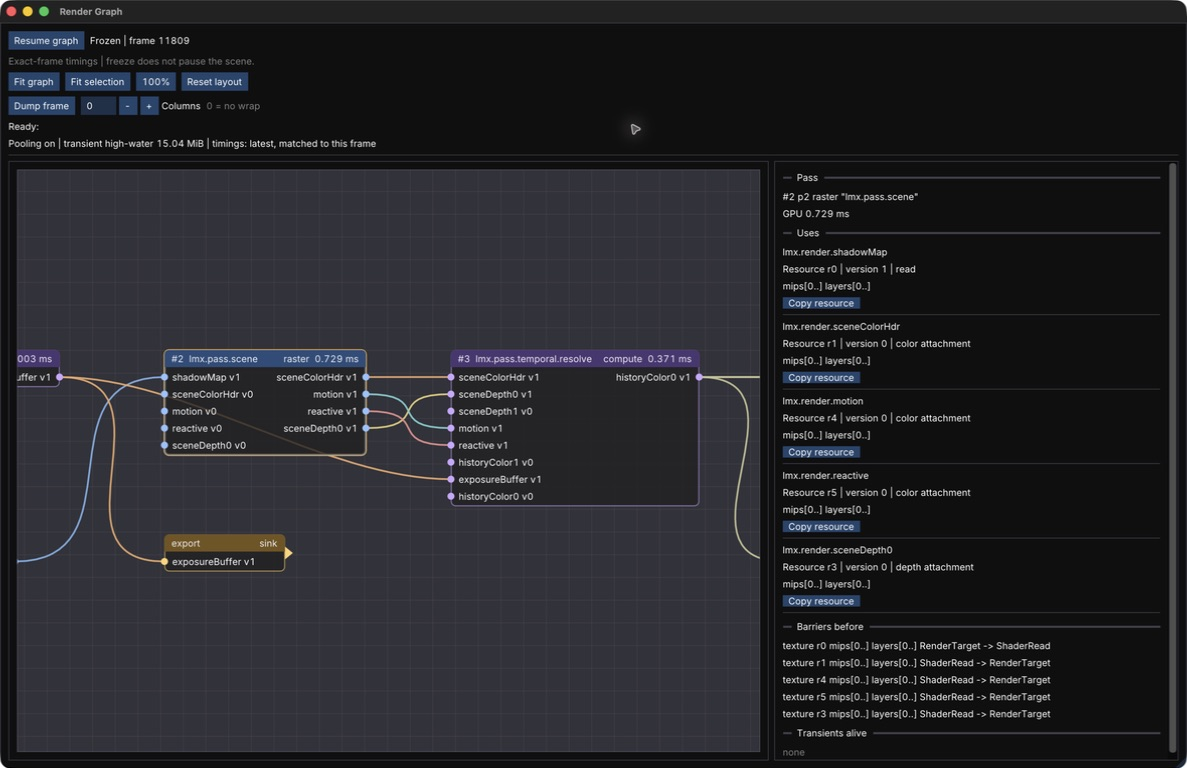
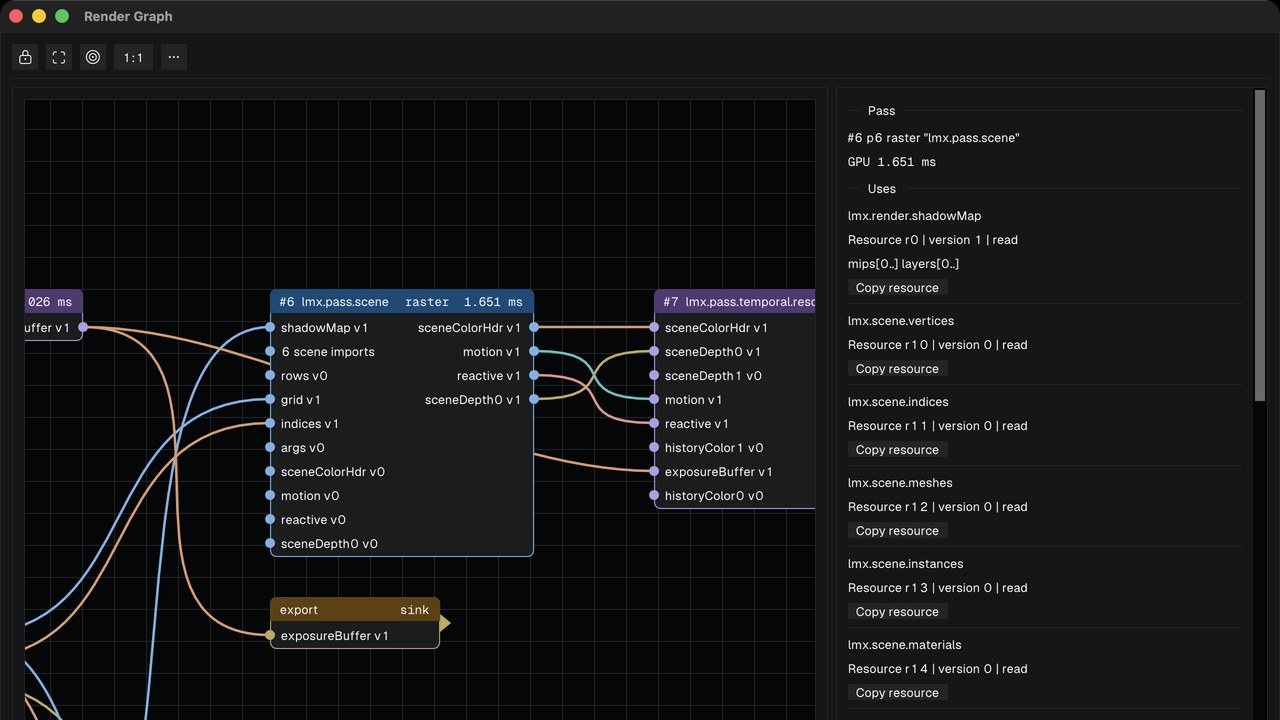
docs: refresh the README with a feature gallery (#73)

diff --git a/README.md b/README.md
@@ -2,97 +2,104 @@
 
 [![Build](https://img.shields.io/github/actions/workflow/status/AmanThuL/Luminex/ci.yml?branch=main&label=build)](https://github.com/AmanThuL/Luminex/actions/workflows/ci.yml) [![Platform](https://img.shields.io/badge/platform-macOS_26+-black)](#quick-start) [![GPU API](https://img.shields.io/badge/GPU_API-Metal_4-555555)](docs/architecture/overview.md) [![Language](https://img.shields.io/badge/C%2B%2B-23-00599C)](#quick-start) [![License](https://img.shields.io/badge/license-Apache--2.0-blue)](LICENSE)
 
-Physically based rendering on Apple Silicon, built directly on Metal 4.
-Explore detailed scenes, temporal reconstruction and the frame behind each image in an interactive editor.
+A physically based renderer written directly on Metal 4 for Apple Silicon, with an editor that lets you take apart any frame it draws.
 
-[Quick start](#quick-start) · [Architecture](docs/architecture/overview.md) · [GPU debugging](docs/guides/gpu-debugging.md)
+[Quick start](#quick-start) · [Architecture](docs/architecture/overview.md) · [Frame walkthrough](docs/architecture/frame-pipeline.md) · [GPU debugging](docs/guides/gpu-debugging.md)
 
-![Crytek Sponza in the Luminex editor, with Hierarchy, Inspector and frame diagnostics](docs/media/editor-sponza.jpg)
+![Crytek Sponza's upper corridor in the Luminex editor, with Hierarchy, Inspector, Session and Performance panels](docs/media/editor-sponza.jpg)
 
-<p align="center"><sub>Crytek Sponza · native TAA, scene Hierarchy and live frame diagnostics</sub></p>
+<p align="center"><sub>Crytek Sponza during its camera tour, lit by 16 authored point and spot lights</sub></p>
 
-## Highlights
+## Features
 
-- **Lighting and materials.** Metallic-roughness PBR, image-based lighting, directional shadows,
-  masked foliage, HDR exposure and bloom.
-- **Temporal reconstruction.** Native TAA and temporal upscaling, dynamic resolution, and optional
-  MetalFX reconstruction with native fallback.
-- **An inspectable frame.** Coherent GPU timing snapshots, motion diagnostics and a detached
-  render graph window with resource connections, frame freeze and export.
-- **A practical editor.** Searchable scene Hierarchy, visible-object selection outlines, scoped
-  resets, saved scene documents, playback controls and a log Console. Geist typography,
-  Light/Dark/Auto appearance, density presets and UI zoom fit the workspace. Native macOS menus
-  serve the editor and detached windows.
-- **Built close to the GPU.** C++23, Slang shaders and a thin RHI, with explicit resource
-  dependencies, transient pooling and Metal validation tests.
+<table>
+  <tr>
+    <td width="50%" valign="top">
+      <img src="docs/media/lights.jpg" alt="LightLab's spheres and boxes lit by hundreds of colored point and spot lights">
+      <br><b>Clustered lighting</b><br>
+      Point and spot lights binned into a 16×9×24 froxel grid. LightLab runs 256 of them by default and up to 4,096.
+    </td>
+    <td width="50%" valign="top">
+      <img src="docs/media/san-miguel.jpg" alt="The San Miguel courtyard with trees, tables and arcades">
+      <br><b>Large scenes</b><br>
+      San Miguel's courtyard with alpha-tested foliage and indirect draws. Culling can move to the GPU, with optional occlusion against the previous frame's depth.
+    </td>
+  </tr>
+  <tr>
+    <td width="50%" valign="top">
+      <img src="docs/media/temporal.jpg" alt="TemporalLab with the temporal rejection overlay over its moving objects">
+      <br><b>Temporal reconstruction</b><br>
+      Native TAA and upscaling with dynamic resolution, optional MetalFX, and overlays for motion, rejection, history weight and age.
+    </td>
+    <td width="50%" valign="top">
+      <img src="docs/media/render-graph.jpg" alt="The Render Graph window with the scene pass selected and its resources listed">
+      <br><b>Render graph</b><br>
+      Each frame compiles into a graph with aliased transient memory. Freeze it, follow a resource and read matched GPU timings.
+    </td>
+  </tr>
+  <tr>
+    <td width="50%" valign="top">
+      <img src="docs/media/gizmo.jpg" alt="The Damaged Helmet selected with its move gizmo, next to its transform in the Inspector">
+      <br><b>Scene authoring</b><br>
+      Scenes are glTF files. Drag movable objects and lights with a W/E/R/Y gizmo; objects the scene marks static stay put.
+    </td>
+    <td width="50%" valign="top">
+      <img src="docs/media/damaged-helmet.png" alt="Damaged Helmet rendered with physically based materials and image-based lighting">
+      <br><b>Physically based materials</b><br>
+      Metallic-roughness PBR with image-based lighting, directional shadows, HDR exposure and bloom.
+    </td>
+  </tr>
+</table>
 
-![Render Graph in its own macOS window, showing pass dependencies and the selected pass resources](docs/media/render-graph.jpg)
+Also included:
 
-<p align="center"><sub>Render Graph · freeze a frame, follow its resources and inspect matched GPU timings</sub></p>
-
-<p align="center">
-  <img src="docs/media/damaged-helmet.png" alt="Damaged Helmet rendered with physically based materials and image-based lighting" width="640">
-  <br>
-  <sub>Damaged Helmet · metallic-roughness materials and image-based lighting</sub>
-</p>
+- A local session bridge. Scripts and agents can query the editor and propose changes, which apply only after you approve them.
+- Headless screenshots, frame sequences and GPU cost measurements from the command line.
+- Light, Dark and Auto appearance, native macOS menus and a workspace layout that persists.
 
 ## Quick start
 
-Requires **Apple Silicon, macOS 26+, Xcode 26 and Homebrew**.
+Needs Apple Silicon, macOS 26 and Xcode 26.
 
 ```bash
 brew install xmake
-git clone --recursive https://github.com/AmanThuL/Luminex.git
-cd Luminex
-xmake setup
-xmake
-xmake run App
+git clone --recursive https://github.com/AmanThuL/Luminex.git && cd Luminex
+xmake setup               # pinned dependencies and sample scenes; rerun when a pull adds one
+xmake && xmake run App    # opens the editor on Sponza
 ```
 
-Setup downloads pinned dependencies, Geist Sans/Mono and Codicons fonts, and sample assets. The editor opens maximized
-on Sponza. Hold the right mouse button in the viewport and use WASD + Q/E to fly.
+`xmake setup --san-miguel` adds the optional courtyard (about 511 MiB). Render without the editor:
 
-Use **File → Open Scene** to choose Sponza, MaterialLab, TemporalLab, VisibilityLab, LightLab or
-San Miguel (installed with `xmake setup --san-miguel`). MaterialLab includes Damaged Helmet;
-TemporalLab includes the animated Milk Truck. **File → Open…**, **Save** and **Save As…** manage
-[scene documents](docs/guides/scene-documents.md), including object enablement, lights and the
-scene look. Select Environment in Hierarchy for exposure, bloom and shadows.
-**Window → Render Graph** opens the detached graph.
-Use **View → UI Scale** or Cmd+- / Cmd++ to adjust UI scale; click the toolbar percentage or press Cmd+0 to reset it.
-Use **View → Appearance** for Auto (system), Light or Dark and **View → Density** for Comfortable or Compact.
-Layout, scale, appearance and density are saved automatically. **Window → Style Gallery** opens component and type previews.
+```bash
+xmake run App --scene temporal-lab --frames 32 --temporal-view rejection --screenshot out.png
+```
 
-## Repository layout
-
-| Path | Contents |
+| In the editor | Keys |
 |---|---|
-| `Source/Core` | Logging, assertions, math, geometry, and containers with no domain meaning. |
-| `Source/Engine` | Asset loading and baking, plus the GPU-resident scene: geometry, materials, lights, and cameras. |
-| `Source/Scenes` | Document catalog, lab generators and saved-scene export above Engine. |
-| `Assets/Scenes` | Six checked-in glTF scene documents and their animation buffers. |
-| `Source/Render` | The render graph, the renderer, and the shader-matched rendering pass families. |
-| `Source/App` | The editor's models, its SDL3 and Dear ImGui shell and panels, the frame loops, and the headless screenshot and measurement runners. |
-| `RojoRHI/` | The Metal 4 rendering hardware interface, mounted as a git submodule. |
-| `Shaders/` | Slang shader sources compiled to MSL. |
-| `Tests/` | Unit and GPU test cases, laid out to mirror `Source/`. |
-| `Tools/` | Build, policy, and diagnostic scripts, plus the offline texture baker. |
-| `docs/` | Architecture pages, conventions, decisions, guides, and the roadmap. |
+| Fly | Hold the right mouse button, then WASD and Q/E |
+| Gizmo tool | W move, E rotate, R scale, Y combined, Q none |
+| Gizmo space | X toggles world and local |
+| Frame selection, reset camera | F, Home |
+| Open, save scene | Cmd+O, Cmd+S |
 
-## Explore the project
+## Structure
 
-[Architecture](docs/architecture/overview.md) ·
-[Frame walkthrough](docs/architecture/frame-pipeline.md) ·
-[GPU debugging](docs/guides/gpu-debugging.md) ·
-[Scene documents](docs/guides/scene-documents.md) ·
-[Editor workspace](docs/guides/editor-workspace.md) ·
-[Temporal comparisons](docs/guides/temporal-comparison.md) ·
-[Roadmap](docs/roadmap.md)
+Luminex is a set of static libraries whose dependencies point one way, from the GPU interface up to the editor.
 
-CI checks the build, CPU tests and repository policy; documentation-only changes run the policy checks alone. Metal 4 GPU tests run on supported hardware.
+- `RojoRHI` is a thin Metal 4 hardware interface for devices, resources, passes and GPU timing. It lives in its own [repository](https://github.com/AmanThuL/rojo-rhi), mounted as a submodule, and depends on nothing else here.
+- `Core` holds math, containers, logging and file utilities, with no graphics code.
+- `Engine` imports and bakes assets, reads and writes glTF scene documents, and keeps the GPU-resident scene with its animation. Depends on `Core` and `RojoRHI`.
+- `Render` builds each frame as a render graph: shadows, clustered lighting, visibility, temporal reconstruction, exposure, bloom and display. Depends on `Engine`.
+- `Scenes` catalogs the scene documents, generates parameter-sized populations and exports edits back to glTF. Depends on `Engine`.
+- `App` is the SDL3 and Dear ImGui editor plus the headless runners. Its UI-free models live in `AppModel` and are tested on their own.
+
+Shaders are Slang, in `Shaders/Common` and one `Shaders/Passes/<family>` folder per pass family. `Tests/` mirrors `Source/`. More in the [architecture overview](docs/architecture/overview.md), the [scene documents](docs/guides/scene-documents.md), [editor workspace](docs/guides/editor-workspace.md) and [agent session](docs/guides/agent-session.md) guides, and the [roadmap](docs/roadmap.md).
+
+CI checks the build, CPU tests and repository policy. Metal 4 GPU tests run on supported hardware.
 
 ## License and credits
 
 Source: [Apache 2.0](LICENSE).
-Crytek Sponza © 2010 Frank Meinl/Crytek, CC BY 3.0. Images are rendered with Luminex.
+Crytek Sponza © 2010 Frank Meinl/Crytek, CC BY 3.0. San Miguel by Guillermo M. Leal Llaguno, from Morgan McGuire's Computer Graphics Archive. Images are rendered with Luminex.
 Model credits and separate asset licenses are recorded in
 [third-party notices](THIRD_PARTY_NOTICES.md).
